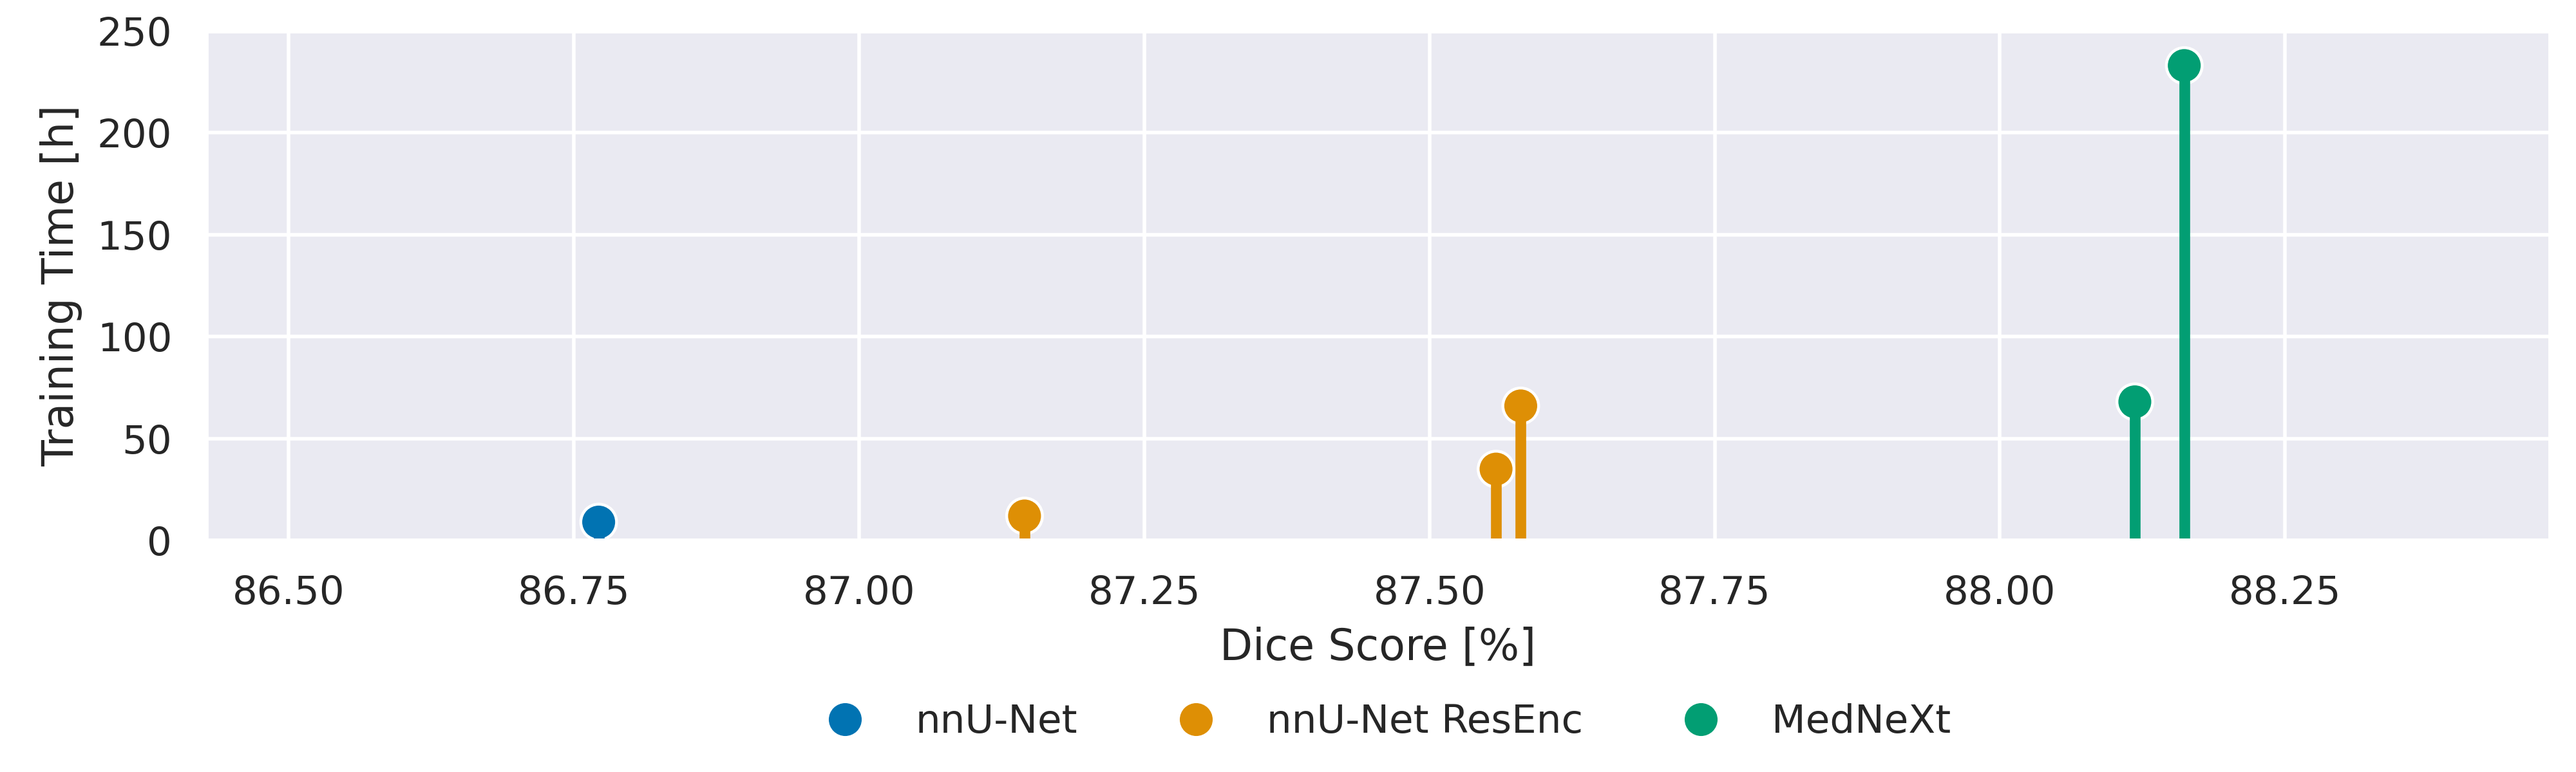
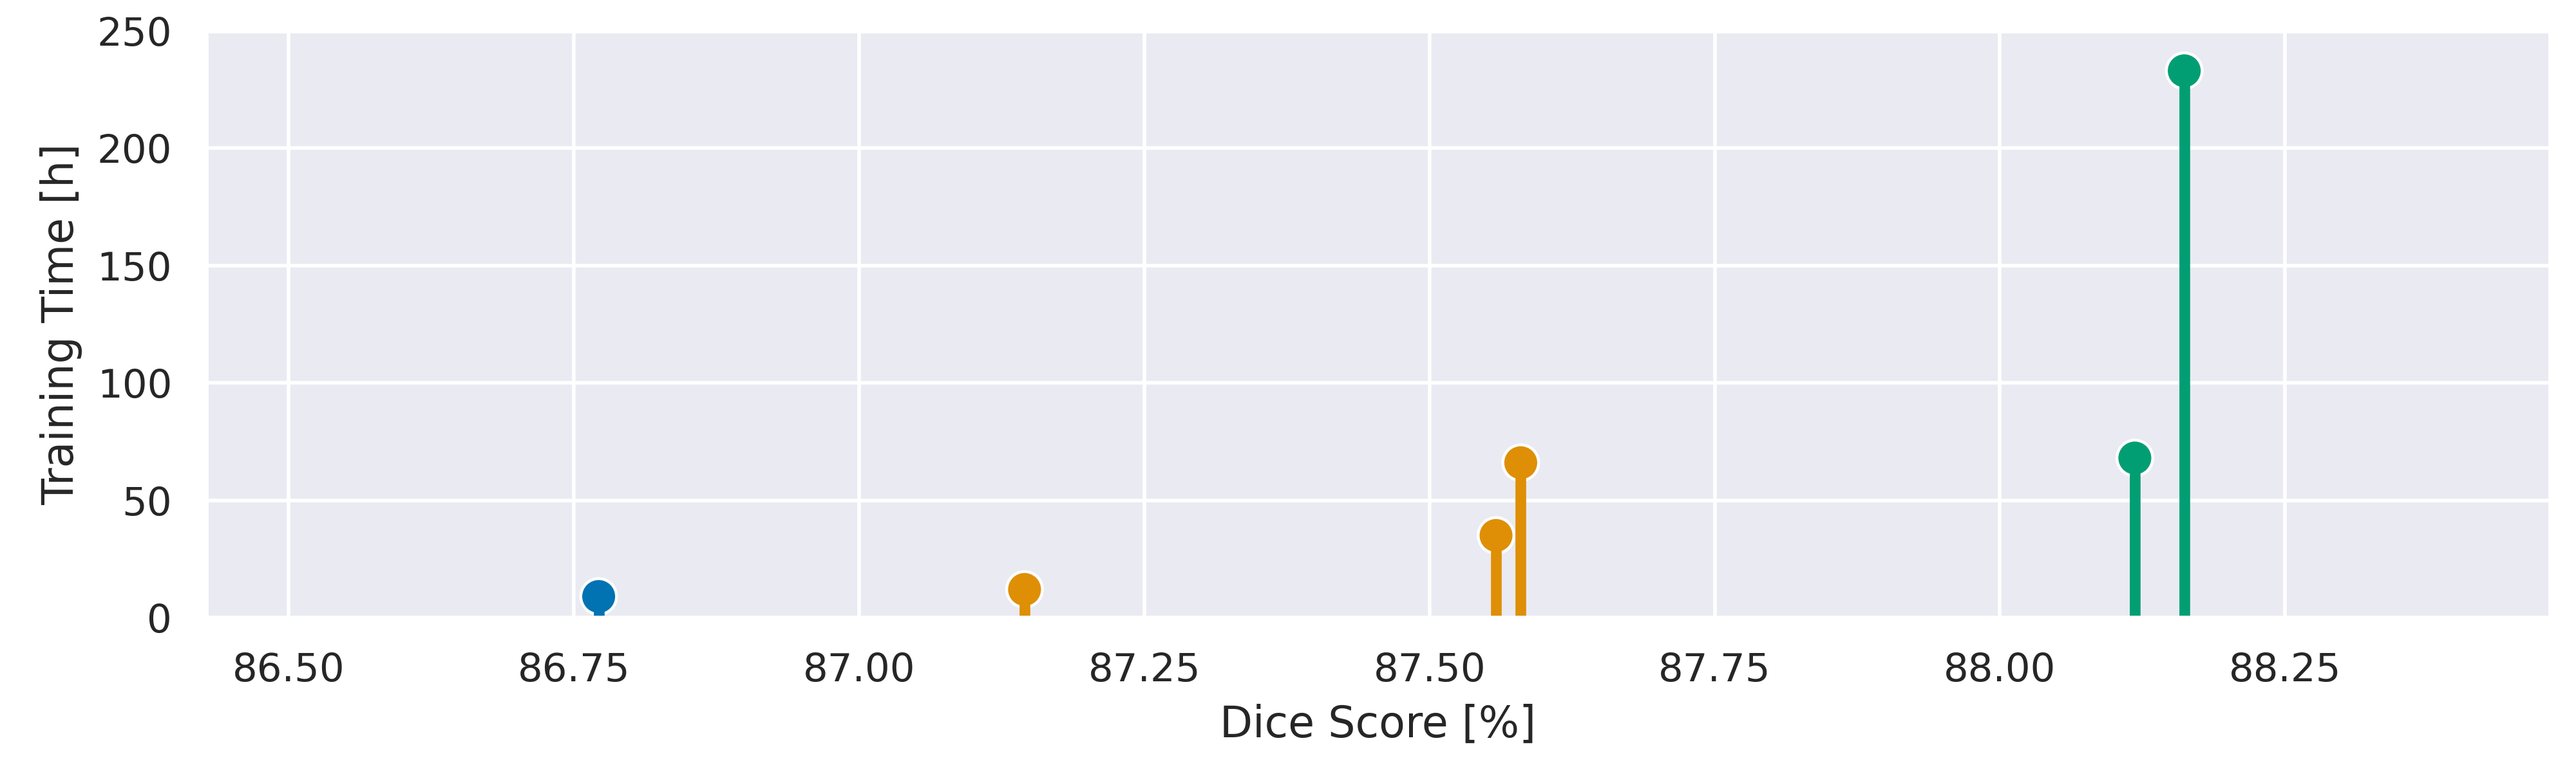
plots presentation

diff --git a/mockup_plots/training_time_vs_performance.py b/mockup_plots/training_time_vs_performance.py
@@ -52,24 +52,25 @@ def plot(step: int, prev_g=None):
     else:
         handles, labels = None, None
 
-    g.legend(
-        handles=handles,
-        labels=labels,
-        loc="upper center",
-        bbox_to_anchor=(0.5, -0.25),
-        ncol=3,
-        fancybox=False,
-        shadow=False,
-        frameon=False,
-    )
+    # g.legend(
+    #     handles=handles,
+    #     labels=labels,
+    #     loc="upper center",
+    #     bbox_to_anchor=(0.5, -0.25),
+    #     ncol=3,
+    #     fancybox=False,
+    #     shadow=False,
+    #     frameon=False,
+    # )
 
     fig.subplots_adjust(
         top=0.96,   
-        bottom=0.3, 
+        bottom=0.2, 
         left=0.08,  
         right=0.99,  
         # wspace=0.1  
     )
+    g.legend().remove()
 
 
     plt.grid(True)
